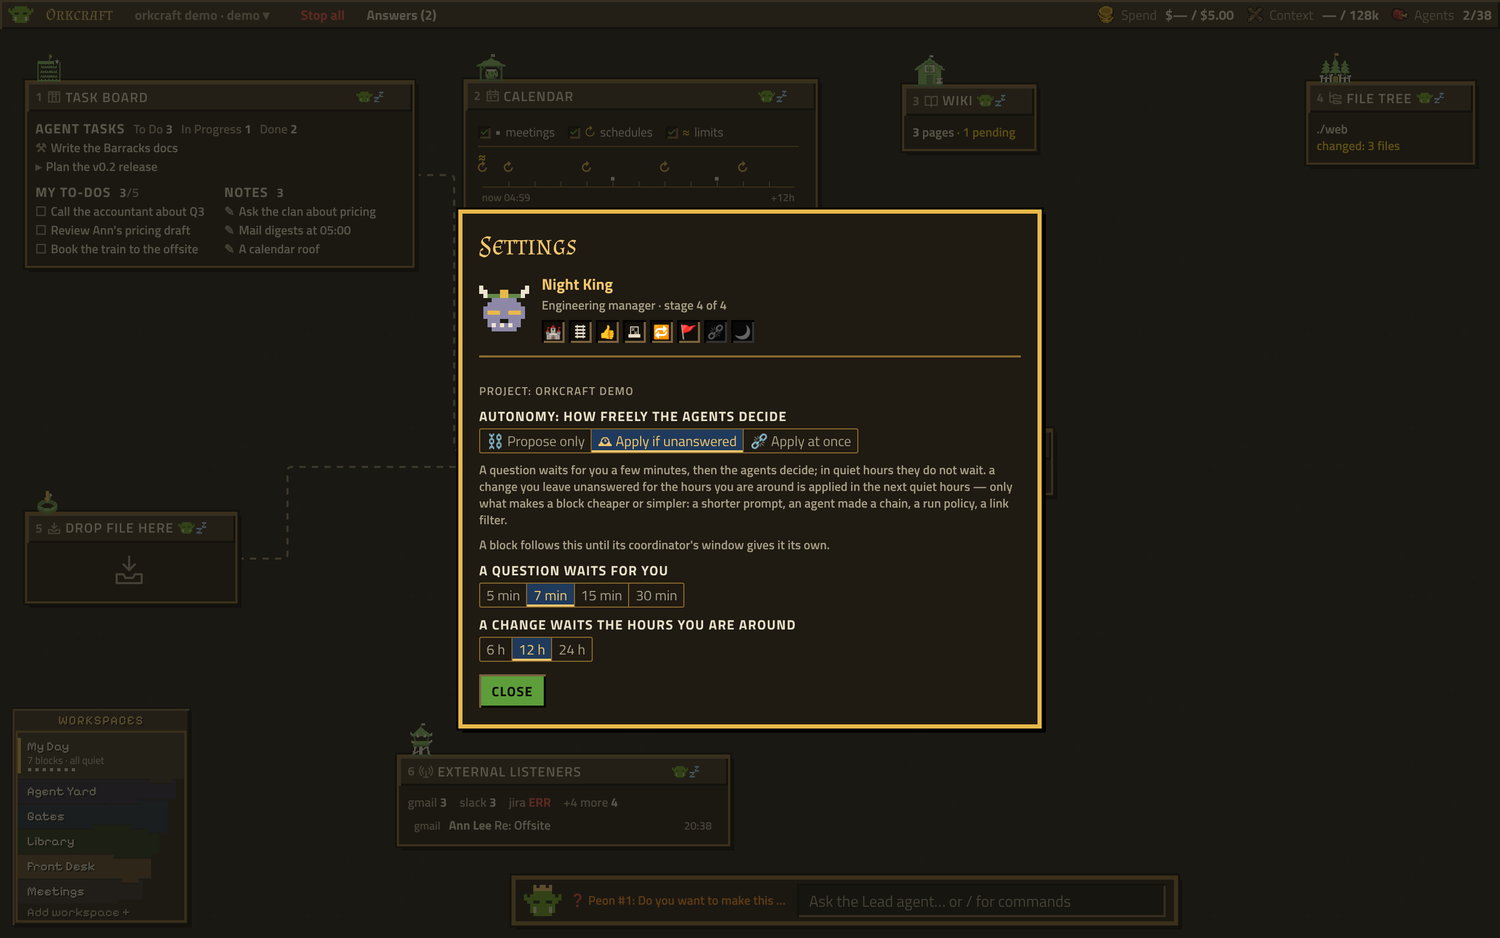
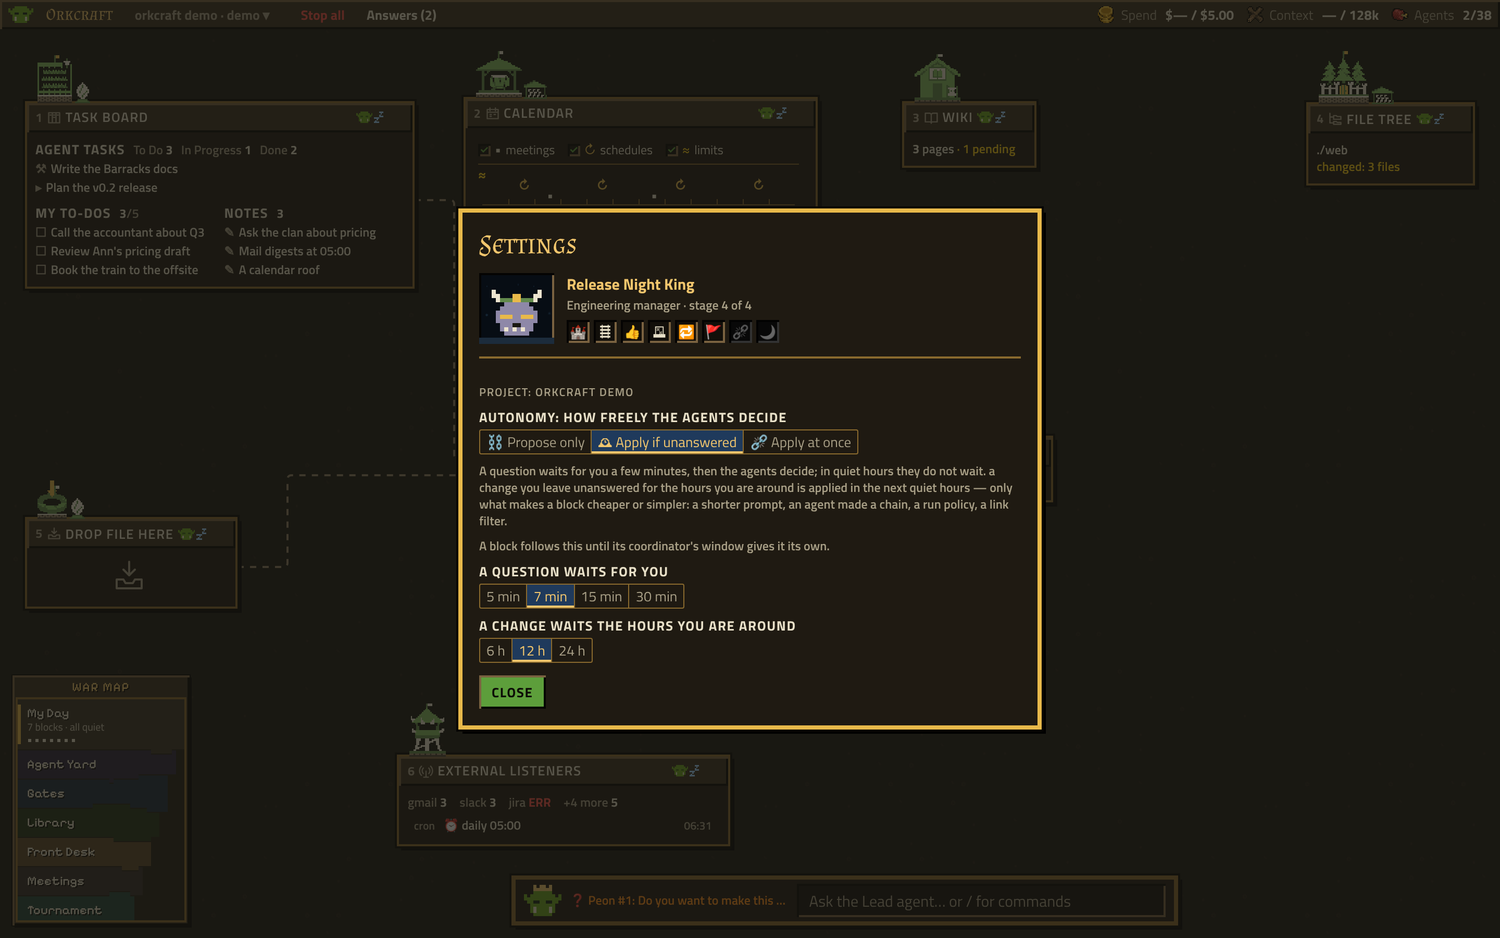
The mascots' ranks, with a grin: a fantasy title with the job in it
Commit Grunt to Warlord of Prod, Standup Zombie to Release Night King, Pixel Sprout to High Elf of the
Design System, A/B Tinkerer to Grand Tinker of Conversions, Spreadsheet Scrounger to KPI Tycoon,
Bootstrap Squire to Paladin of Product-Market Fit, Inbox Skeleton to Lord of a Thousand Tabs; stage 2
stays the role's own nick. Settings shows the name as written (a nick, never Office words).

Claude-Session: https://claude.ai/code/session_012rYUXTByRVU3RkJPreroMm

diff --git a/orkcraft/gui/static/js/settings.js b/orkcraft/gui/static/js/settings.js
@@ -22,7 +22,7 @@ function You({ y }) {
       <${MascotHead} kin=${y.kin} stage=${y.stage} size=${4} />
     </span>
     <div class="gui-you__who">
-      <span class="gui-you__name">${say(y.name)}</span>
+      <span class="gui-you__name">${y.name}</span>
       <span class="ok-font-status ok-tone-muted">${say(`${y.role} · stage ${y.stage} of 4`)}</span>
       ${y.next && html`<span class="ok-font-status">${say(`Next: ${y.next}`)}</span>`}
       <span class="gui-you__deeds" aria-label=${say("Deeds")}>

diff --git a/orkcraft/realm/growth.py b/orkcraft/realm/growth.py
@@ -137,14 +137,14 @@ DEEDS: tuple[Deed, ...] = (
 )
 
 # The mascot's stages by kin (realm/intents.py `Role.mascot`); stage 2 is the role's own nick.
-STAGE_NAMES = {
-    "orc": ("Grunt", "", "Warband Chief", "Prod Warlord"),
-    "lich": ("Zombie Manager", "", "Lich Lord", "Night King"),
-    "elf": ("Elf Sprout", "", "Elf Ranger", "Elf Lord of Pixels"),
-    "gnome": ("Tinker Gnome", "", "Gnome Engineer", "Grand Tinker"),
-    "goblin": ("Goblin Scrounger", "", "Goblin Boss", "Goblin Tycoon"),
-    "knight": ("Squire", "", "Knight Errant", "Paladin of Prod"),
-    "skeleton": ("Bag of Bones", "", "Skeleton Captain", "Bone Lord"),
+STAGE_NAMES = {           # a fantasy rank with the job in it: what the stage means, said with a grin
+    "orc": ("Commit Grunt", "", "Hotfix Berserker", "Warlord of Prod"),
+    "lich": ("Standup Zombie", "", "Lich of Sprints", "Release Night King"),
+    "elf": ("Pixel Sprout", "", "Ranger of the Grid", "High Elf of the Design System"),
+    "gnome": ("A/B Tinkerer", "", "Growth-Hack Artificer", "Grand Tinker of Conversions"),
+    "goblin": ("Spreadsheet Scrounger", "", "Pivot-Table Boss", "KPI Tycoon"),
+    "knight": ("Bootstrap Squire", "", "Knight of the Seed Round", "Paladin of Product-Market Fit"),
+    "skeleton": ("Inbox Skeleton", "", "Captain of the Skeleton Crew", "Lord of a Thousand Tabs"),
 }
 STAGE_NEXT = {1: "Rate three buildings in one week", 2: "Bring a building to level II",
               3: "Three buildings at level III, one of them on the clock or unchained", 4: ""}

diff --git a/tests/test_growth.py b/tests/test_growth.py
@@ -122,7 +122,7 @@ def test_the_mascot_stage_follows_the_camp_and_is_named_by_kin_and_role(tmp_path
     assert growth.stage_of(town, {}, machine) == 4
     assert growth.kin_of(machine.profile) == "lich"
     assert [growth.stage_name(machine.profile, s) for s in (1, 2, 3, 4)] == [
-        "Zombie Manager", "Jira Lich", "Lich Lord", "Night King"]
+        "Standup Zombie", "Jira Lich", "Lich of Sprints", "Release Night King"]
 
 
 def test_a_review_answered_by_a_kept_change_closes_its_loop(tmp_path: Path):

diff --git a/docs/design/growth.md b/docs/design/growth.md
@@ -226,16 +226,29 @@ A head on the ork mark's grid (`tools/logo.py`: 12×8, flat, no outline, the sam
 kin: ork, undead, elf, gnome, goblin, knight, skeleton. Stages **add** to the head and never redraw
 it, the way the ork's states do (sleep mark, sweat, flame):
 
-| Stage | Example: undead | Example: orks | Reached when (starting values) |
-|---|---|---|---|
-| 1 | 🧟 Zombie manager | Grunt | the first town is raised |
-| 2 | Roadmap Wraith (a hood) | Merge Ork (a helmet) | 3+ buildings rated in one week |
-| 3 | Jira Lich (a bone circlet) | Warband Chief (horns) | a building reaches level II |
-| 4 | Night King (kin's own top mark) | Prod Warlord (kin's own top mark) | three buildings at III, one of them on the clock or unchained |
+| Stage | Reached when (starting values) | Its mark on the head |
+|---|---|---|
+| 1 | the first town is raised | — |
+| 2 | 3+ buildings rated in one week | a band |
+| 3 | a building reaches level II | horns |
+| 4 | three buildings at III, one of them on the clock or unchained | gold eyes and a gem |
+
+The names (`realm/growth.py` `STAGE_NAMES`): a fantasy rank with the job in it. Stage 2 is the role's own
+nick from the onboarding, the others are the kin's.
+
+| Kin (roles) | 1 | 2 | 3 | 4 |
+|---|---|---|---|---|
+| orks (engineers, QA) | Commit Grunt | Merge Ork · Bug Ork | Hotfix Berserker | Warlord of Prod |
+| undead (managers) | Standup Zombie | Jira Lich · Roadmap Wraith | Lich of Sprints | Release Night King |
+| elves (designers) | Pixel Sprout | Figma Elf · Lore Elf | Ranger of the Grid | High Elf of the Design System |
+| gnomes (ASO, marketing) | A/B Tinkerer | Keyword Gnome · Funnel Gnome | Growth-Hack Artificer | Grand Tinker of Conversions |
+| goblins (analysts) | Spreadsheet Scrounger | Dashboard Goblin | Pivot-Table Boss | KPI Tycoon |
+| knights (founders) | Bootstrap Squire | Indie Knight | Knight of the Seed Round | Paladin of Product-Market Fit |
+| skeletons (everyone else) | Inbox Skeleton | Wandering Skeleton | Captain of the Skeleton Crew | Lord of a Thousand Tabs |
 
 - **The top stage is never a crown.** The crown is the Warchief's (§8). Each kin has its own top
   mark: glowing eyes and a staff for the lich, a horned war helm for the ork, and so on.
-- **The names** keep the onboarding's humour (Jira Lich, Night King). They are Camp words; with Office
+- **The names** keep the onboarding's humour (Jira Lich, Release Night King). They are Camp words; with Office
   words the stage is named by the role and its number ("Engineering manager · stage 3").
 - **Art cost:** 7 heads + about 3 stage marks per kin, all from code grids. Start with two kins
   (undead and orks) and 3 stages. The others show a shared stage mark until drawn.

diff --git a/README.md b/README.md
@@ -124,7 +124,7 @@ Buildings and their operator grow, from what the orks learned — never from cli
 
   ![A building's Info: its sprite with its banner, its renown and goal, its garrison](docs/img/info.png)
 - **Your mascot.** Settings opens with you: the mascot of the role you gave in the onboarding (an
-  ork, a lich, an elf…), four stages from a Zombie Manager to a Night King, and your **deeds** — the
+  ork, a lich, an elf…), four stages from a Standup Zombie to a Release Night King, and your **deeds** — the
   first road, the first change the orks kept, a building at III; the ones ahead are grey with a hint.
 
   ![Settings: your mascot, its stage and deeds, then the project's rules](docs/img/settings.png)
